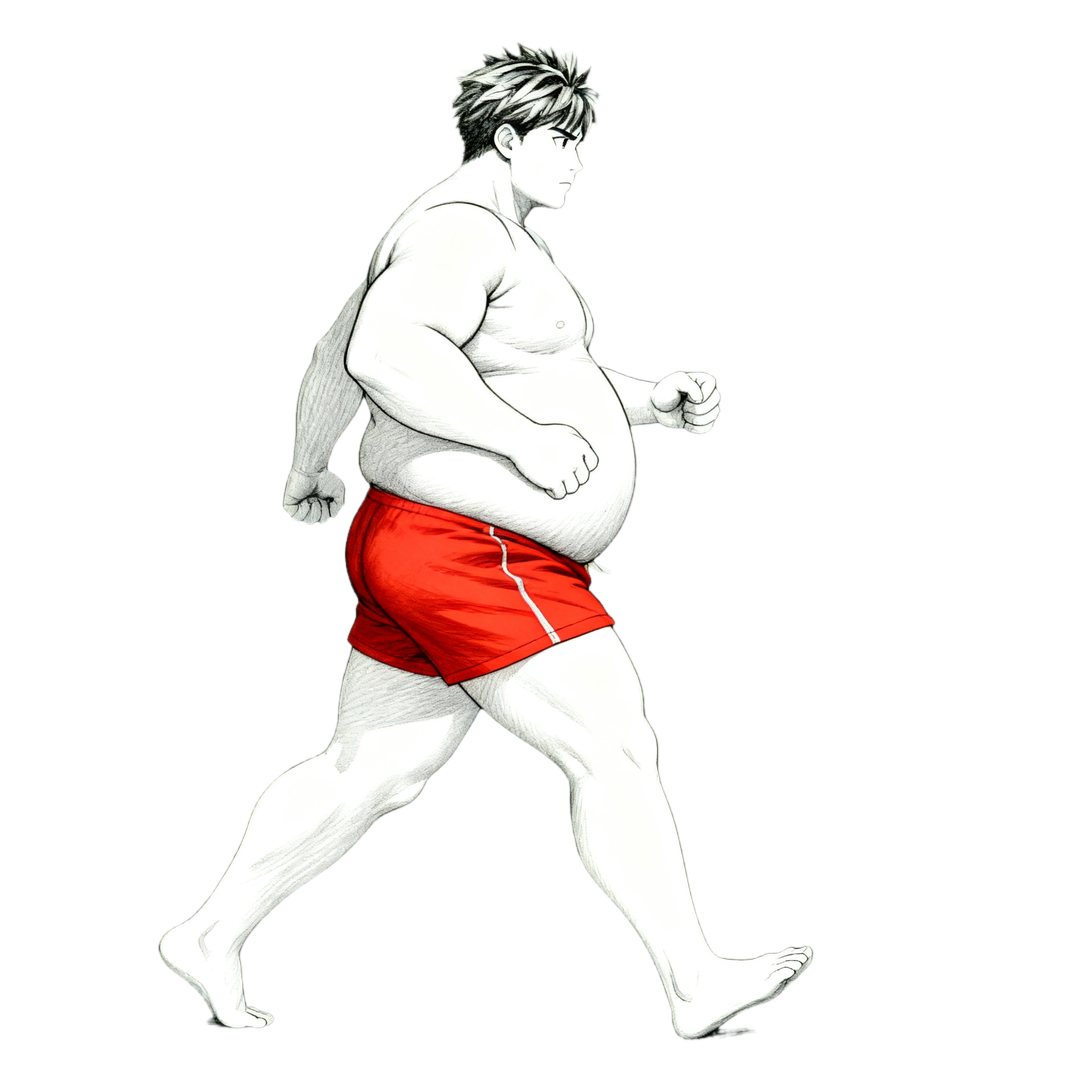
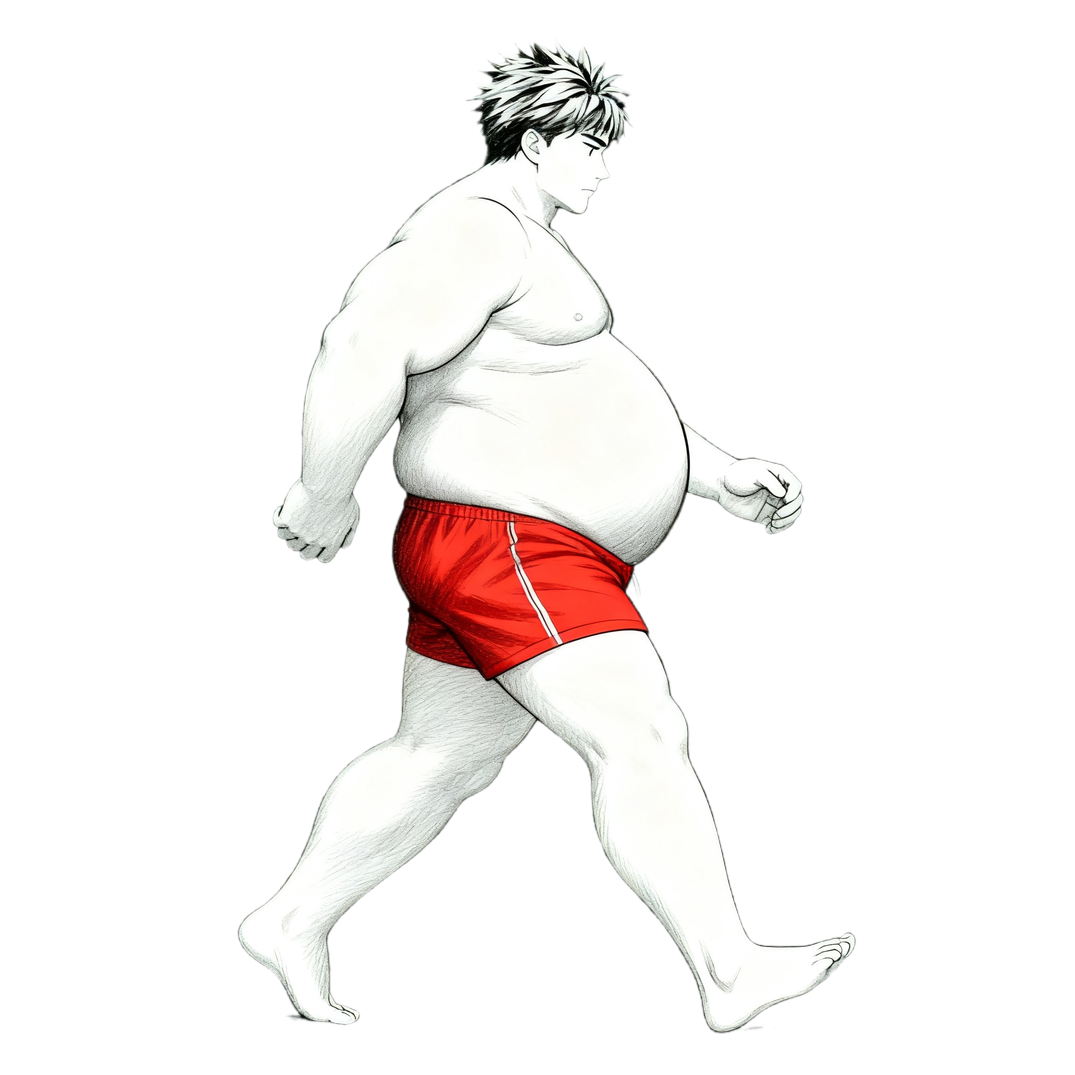
Fin de vidéo : « Watch next » (miniature + titre) et bouton S'abonner animé ; Kai gros qui marche corrigé (2 mains)
Claude-Session: https://claude.ai/code/session_01HfTJRBKojVvCYkTdJc6zQ1

diff --git a/motion/js/yt16.js b/motion/js/yt16.js
@@ -20,6 +20,7 @@ const IMG = {};
 const names = new Set();
 for (const s of SC) {
   for (const k of ['img', 'alt', 'hl', 'medal']) if (s[k]) names.add(s[k]);
+  if (s.next) names.add(s.next.img);
   (s.seq || []).forEach((q) => { names.add(q.img); if (q.hl) names.add(q.hl); });
 }
 await Promise.all([...names].map((n) => new Promise((res) => { const im = new Image(); im.onload = () => { IMG[n] = im; res(); }; im.onerror = res; im.src = `${BASE}${CFG.png || 'png'}/${n}.png`; })));
@@ -101,7 +102,9 @@ SC.forEach((s, i) => {
   if (s.cam && s.cam[3] / s.cam[0] >= 1.25) ev(s.t0 + 0.05, 'zoom');      // la caméra zoome sur le personnage
   if (s.enter && s.enter !== 'fade') ev(s.t0 - 0.05, 'swish');           // le personnage entre
   if (s.card) ev(s.t0 + 0.02, 'glitch');                                  // écran noir + phrase
-  if (s.medal) ev(s.t0 + 0.05, 'hit');                                    // médaillon d'exercice
+  if (s.medal) ev(s.t0 + 0.05, 'hit');
+  if (s.next) { ev(s.t0 + 0.05, 'swish'); typeTimes(s, s.next.title).forEach((t) => ev(t, 'tap')); }
+  if (s.subscribe) { ev(at(s, s.clickAt ?? 0.35), 'click'); ev(at(s, s.clickAt ?? 0.35) + 0.12, 'ding'); }                                    // médaillon d'exercice
   if (s.label || s.reps) ev(s.t0 + 0.05, 'pop');
   if (s.text) (s.instant ? [at(s, s.textAt ?? 0.2)] : typeTimes(s, s.text)).forEach((t, k) => ev(t, k ? 'tap' : 'click')); // texte qui s'écrit
   if (s.card && !s.instant) typeTimes(s, s.card).slice(1).forEach((t) => ev(t, 'tap'));
@@ -224,6 +227,40 @@ function dashLine(r, l, T, t0) { // ligne pointillée verte (corps bien droit), 
   g.beginPath(); g.moveTo(x0, y0); g.lineTo(x0 + (x1 - x0) * k, y0 + (y1 - y0) * k); g.stroke(); g.restore();
 }
 
+function rrect(x, y, w, h, r) { g.beginPath(); g.moveTo(x + r, y); g.arcTo(x + w, y, x + w, y + h, r); g.arcTo(x + w, y + h, x, y + h, r); g.arcTo(x, y + h, x, y, r); g.arcTo(x, y, x + w, y, r); g.closePath(); }
+function nextVideo(s, T) { // fin de vidéo : « à regarder ensuite » = miniature + titre d'une autre vidéo de la chaîne
+  const u = eio((T - s.t0 + 0.1) / 0.7), im = IMG[s.next.img]; if (u <= 0) return;
+  const w = 880, h = 495, x = lerp(W + 40, W * 0.62 - w / 2, u), y = H * 0.44 - h / 2 + Math.sin(T * 1.4) * 5;
+  g.save(); g.shadowColor = 'rgba(255,255,255,0.25)'; g.shadowBlur = 40; rrect(x, y, w, h, 22); g.fillStyle = '#111'; g.fill(); g.restore();
+  if (im) { g.save(); rrect(x, y, w, h, 22); g.clip(); g.drawImage(im, x, y, w, h); g.restore(); }
+  g.save(); rrect(x, y, w, h, 22); g.lineWidth = 5; g.strokeStyle = '#fff'; g.stroke(); g.restore();
+  // bouton lecture
+  g.save(); g.globalAlpha = 0.85 * u; g.translate(x + w - 70, y + h - 62); g.scale(0.7, 0.7); g.beginPath(); g.arc(0, 0, 52, 0, Math.PI * 2); g.fillStyle = 'rgba(220,30,40,0.92)'; g.fill();
+  g.beginPath(); g.moveTo(-16, -24); g.lineTo(28, 0); g.lineTo(-16, 24); g.closePath(); g.fillStyle = '#fff'; g.fill(); g.restore();
+  // étiquette « WATCH NEXT » + titre qui s'écrit
+  const a = clamp((T - s.t0 - 0.4) / 0.3);
+  g.save(); g.globalAlpha = a; g.font = FONT(800, 40, 'italic'); g.textAlign = 'left'; g.textBaseline = 'middle'; g.fillStyle = '#e8283a'; g.fillText('WATCH NEXT ▶', x, y - 46); g.restore();
+  typed(s, s.next.title, x + w / 2, y + h + 58, 40, T);
+}
+function subscribe(s, T) { // bouton « S'abonner » : apparaît, le curseur clique, il devient « Subscribed » + cloche
+  const u = (T - s.t0 + 0.1) / 0.4; if (u <= 0) return;
+  const click = at(s, s.clickAt ?? 0.35), done = T >= click, k = clamp((T - click) / 0.25);
+  const cx = W / 2, cy = H * 0.42, sc = (0.6 + 0.4 * back(clamp(u))) * (1 - 0.08 * Math.sin(Math.PI * k));
+  g.save(); g.translate(cx, cy); g.scale(sc, sc);
+  rrect(-260, -62, 520, 124, 62); g.fillStyle = done ? '#2b2b2b' : '#e8283a'; g.fill();
+  g.font = FONT(800, 54); g.textAlign = 'center'; g.textBaseline = 'middle'; g.fillStyle = '#fff'; g.fillText(done ? 'SUBSCRIBED' : 'SUBSCRIBE', done ? -20 : 0, 3);
+  if (done) { g.save(); g.translate(205, 0); g.rotate(Math.sin((T - click) * 18) * 0.35 * Math.exp(-(T - click) * 2.5)); // cloche qui sonne
+    g.beginPath(); g.moveTo(-20, 16); g.quadraticCurveTo(-20, -26, 0, -26); g.quadraticCurveTo(20, -26, 20, 16); g.closePath(); g.fillStyle = '#fff'; g.fill();
+    g.fillRect(-26, 14, 52, 7); g.beginPath(); g.arc(0, 26, 7, 0, Math.PI * 2); g.fill(); g.restore(); }
+  g.restore();
+  // curseur qui vient cliquer
+  const m = eio((T - at(s, 0.12)) / Math.max(0.3, click - at(s, 0.12))), px = lerp(W * 0.8, cx + 40, m), py = lerp(H * 0.85, cy + 20, m);
+  if (T > at(s, 0.1) && T < click + 0.8) { g.save(); g.globalAlpha = clamp(1 - (T - click - 0.4) / 0.4); g.translate(px, py); const cs = done && T < click + 0.15 ? 0.85 : 1; g.scale(cs, cs);
+    g.beginPath(); g.moveTo(0, 0); g.lineTo(0, 46); g.lineTo(12, 35); g.lineTo(21, 54); g.lineTo(29, 50); g.lineTo(20, 32); g.lineTo(36, 32); g.closePath();
+    g.fillStyle = '#fff'; g.fill(); g.lineWidth = 3; g.strokeStyle = '#000'; g.stroke(); g.restore(); }
+  if (s.text) typed(s, s.text, W / 2, H * 0.68, 46, T);
+}
+
 function draw(T) {
   T = clamp(T, 0, DUR - 1e-4);
   g.fillStyle = '#000'; g.fillRect(0, 0, W, H);
@@ -233,6 +270,8 @@ function draw(T) {
   g.save(); g.globalAlpha = 1 - out;
   if (s.card) { // écran noir avec juste une phrase en italique
     if (s.instant) italic(s.card, W / 2, H / 2, 54, clamp((T - s.t0 + 0.1) / 0.4)); else typed(s, s.card, W / 2, H / 2, 54, T);
+  } else if (s.next) { nextVideo(s, T); if (s.img) { const r = charRect(s, T, IMG[s.img]); drawChar(IMG[s.img], r); }
+  } else if (s.subscribe) { subscribe(s, T);
   } else if (s.medal) { medal(s, T);
   } else if (s.reps) { repsCard(s, T);
   } else {
